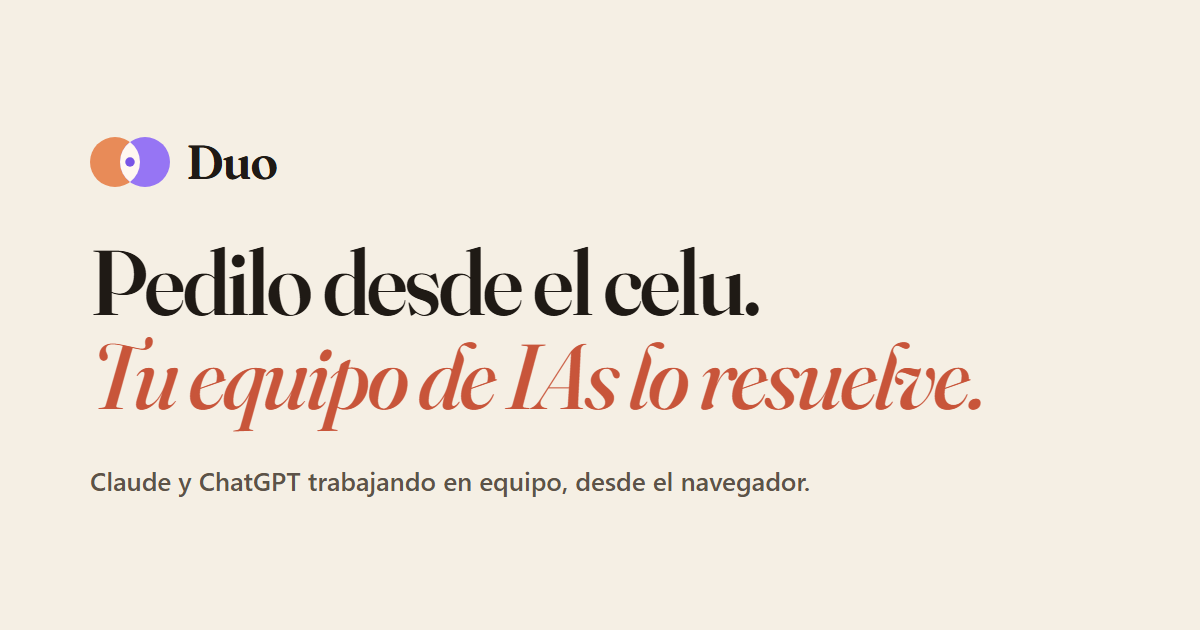
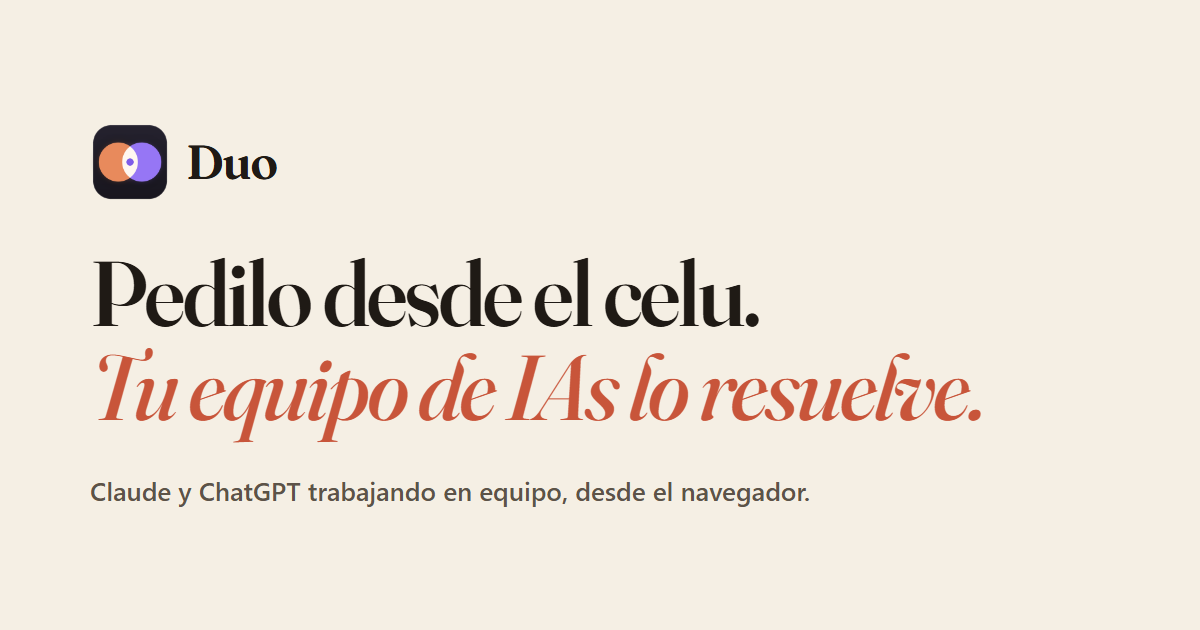
Usa el archivo original del icono de Duo sin recrearlo

Changed region(s): [[0.0617, 0.3921, 0.8325, 0.7238], [0.0617, 0.754, 0.6783, 0.8143], [0.0617, 0.181, 0.1542, 0.3317]]

diff --git a/index.html b/index.html
@@ -9,9 +9,9 @@
 <meta property="og:type" content="website">
 <meta property="og:title" content="Duo · Pedilo desde el celu. Tu equipo de IAs lo resuelve.">
 <meta property="og:description" content="Claude y ChatGPT trabajando en equipo para vos: agentes, respuestas con cita y tareas que salen solas. Desde el navegador.">
-<meta property="og:image" content="https://mattiivazquez.github.io/duo-web/og.png?v=duo">
+<meta property="og:image" content="https://mattiivazquez.github.io/duo-web/og.png?v=original">
 <meta name="twitter:card" content="summary_large_image">
-<link rel="icon" type="image/svg+xml" href="icono.svg?v=duo">
+<link rel="icon" type="image/x-icon" href="icon.ico?v=original">
 <link rel="preconnect" href="https://fonts.googleapis.com">
 <link rel="preconnect" href="https://fonts.gstatic.com" crossorigin>
 <link rel="stylesheet" href="https://fonts.googleapis.com/css2?family=Fraunces:ital,opsz,wght@0,9..144,400..700;1,9..144,400..700&display=swap">
@@ -20,12 +20,12 @@
 <body>
 
 <svg class="sprite" aria-hidden="true">
-  <symbol id="marca" viewBox="0 0 96 60"><circle cx="30" cy="30" r="30" fill="#e88b58"/><circle cx="66" cy="30" r="30" fill="#9675f4"/><path d="M48 6a30 30 0 0 1 0 48 30 30 0 0 1 0-48Z" fill="#fff8f1"/><circle cx="48" cy="30" r="5.7" fill="#7855e6"/></symbol>
+
   <symbol id="flecha" viewBox="0 0 24 24"><path d="M5 12h14M13 6l6 6-6 6" fill="none" stroke="currentColor" stroke-width="2" stroke-linecap="round" stroke-linejoin="round"/></symbol>
 </svg>
 
 <header class="cab">
-  <a class="marca" href="#" aria-label="Duo, inicio"><svg viewBox="0 0 96 60" aria-hidden="true"><use href="#marca"/></svg>Duo</a>
+  <a class="marca" href="#" aria-label="Duo, inicio"><img src="icon.ico" width="40" height="40" alt="">Duo</a>
   <nav aria-label="Secciones">
     <a href="#equipos">Equipos</a>
     <a href="#cerebros">Cerebros</a>
@@ -63,7 +63,7 @@
     </div>
 
     <div class="celu">
-      <div class="celu-cab"><svg viewBox="0 0 96 60" aria-hidden="true"><use href="#marca"/></svg>Informe de octubre</div>
+      <div class="celu-cab"><img src="icon.ico" width="40" height="40" alt="">Informe de octubre</div>
       <div class="burbuja mia e1">Armame el informe del mes y mandámelo ya revisado.</div>
       <div class="estado e2"><i></i><i></i><i></i>Equipo Informes · 3 agentes</div>
       <div class="burbuja e3"><b>Listo.</b> El equipo corrigió un dato de ventas y revisó el informe antes de entregártelo.</div>
@@ -241,7 +241,7 @@
 </main>
 
 <footer class="pie">
-  <span class="marca"><svg viewBox="0 0 96 60" aria-hidden="true"><use href="#marca"/></svg>Duo</span>
+  <span class="marca"><img src="icon.ico" width="40" height="40" alt="">Duo</span>
   <p>Claude es una marca de Anthropic. ChatGPT es una marca de OpenAI. Duo es un producto independiente y no está afiliado, respaldado ni patrocinado por ninguna de las dos empresas.</p>
 </footer>
 

diff --git a/estilos.css b/estilos.css
@@ -30,7 +30,7 @@ p { text-wrap: pretty; }
 
 /* Marca */
 .marca { display: inline-flex; align-items: center; gap: 10px; font-family: var(--serif); font-weight: 620; font-size: 25px; letter-spacing: -.03em; text-decoration: none; }
-.marca svg { width: 40px; height: 25px; flex: none; }
+.marca img { width: 40px; height: 40px; object-fit: contain; flex: none; }
 
 /* Cabecera */
 .cab {
@@ -73,7 +73,7 @@ p { text-wrap: pretty; }
   box-shadow: 10px 0 0 var(--papel2);
 }
 .celu-cab { display: flex; align-items: center; gap: 9px; font-weight: 650; padding: 4px 4px 12px; border-bottom: 1px solid var(--raya); }
-.celu-cab svg { width: 29px; height: 19px; flex: none; }
+.celu-cab img { width: 29px; height: 29px; object-fit: contain; flex: none; }
 .burbuja { padding: 11px 14px; border-radius: 16px 16px 16px 4px; background: var(--papel); max-width: 92%; }
 .burbuja.mia { align-self: flex-end; background: var(--tinta); color: var(--papel); border-radius: 16px 16px 4px 16px; }
 .estado { display: flex; align-items: center; gap: 5px; font-size: 12.5px; color: var(--media); padding-left: 4px; }
